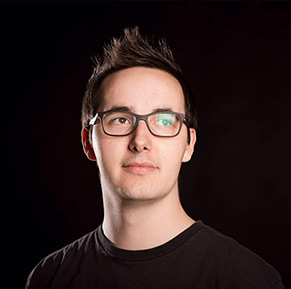
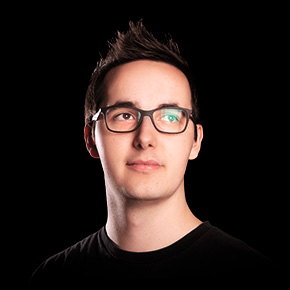
Quick content shifts and updates

Changed region(s): [[0.1241, 0.0623, 0.9931, 1.0], [0.0931, 0.9343, 0.1241, 0.9965], [0.0621, 0.9965, 0.0931, 1.0]]

diff --git a/about.html b/about.html
@@ -1,19 +1,21 @@
 <!DOCTYPE html>
 <html lang="en">
-    <head>
-        <title>About me - Thijmen de Valk</title>
-        <meta name="viewport" content="width=device-width, initial-scale=1">
-        <meta charset="UTF-8">
-        <meta name="description" content="Hi! I'm Thijmen, a Dutch user experience designer. I love designing products that blend the digital and physical world.">
 
-        <meta property="og:type" content="profile">
-        <meta property="og:title" content="Thijmen de Valk">
-        <meta property="og:url" content="https://madebythijmen.nl/about">
-        <meta property="og:image" content="https://madebythijmen.nl/assets/img/about/me@2x.jpg">
-        <meta property="profile:first_name" content="Thijmen">
-        <meta property="profile:last_name" content="de Valk">
+<head>
+    <title>About me - Thijmen de Valk</title>
+    <meta name="viewport" content="width=device-width, initial-scale=1">
+    <meta charset="UTF-8">
+    <meta name="description"
+        content="Hi! I'm Thijmen, a Dutch user experience designer. I love designing products that blend the digital and physical world.">
 
-        <script type="application/ld+json">
+    <meta property="og:type" content="profile">
+    <meta property="og:title" content="Thijmen de Valk">
+    <meta property="og:url" content="https://madebythijmen.nl/about">
+    <meta property="og:image" content="https://madebythijmen.nl/assets/img/about/me@2x.jpg">
+    <meta property="profile:first_name" content="Thijmen">
+    <meta property="profile:last_name" content="de Valk">
+
+    <script type="application/ld+json">
             {
                 "@context": "https://schema.org/",
                 "@type": "Person",
@@ -22,48 +24,59 @@
                 "givenName": "Thijmen",
                 "familyName": "de Valk",
                 "email": "mailto:hello@madebythijmen.nl",
-                "jobTitle": "User Experience Designer",
+                "url": "https://madebythijmen.nl",
+                "jobTitle": "Product Owner \"What's for Dinner\"",
+                "affiliation": [
+                    {
+                        "@type": "Organization",
+                        "name": "Albert Heijn",
+                        "sameAs": [
+                            "https://ah.nl"
+                        ]
+                    }
+                ]
             }
         </script>
-        
-        <link href="https://use.typekit.net" rel="preconnect" crossorigin>
 
-        <link rel="stylesheet" href="/assets/css/styles.css?20201216001">
-        <link rel="stylesheet" href="https://use.typekit.net/uya6imn.css">
+    <link href="https://use.typekit.net" rel="preconnect" crossorigin>
 
-        <link rel="icon" type="image/png" sizes="16x16" href="/favicon-16.png">
-        <link rel="icon" type="image/png" sizes="32x32" href="/favicon-32.png">
-        <link rel="apple-touch-icon" sizes="196x196" href="/favicon.png">
-    </head>
-    <body>
-        <!-- Top bar -->
-        <header class="menu">
-            <h1 class="menu__logo"><a href="/">Made by <span class="util__name">Thijmen</span></a></h1>
-            <nav class="menu__menu">
-                <ul>
-                    <li><a href="/about">About me</a></li>
-                </ul>
-            </nav>
+    <link rel="stylesheet" href="/assets/css/styles.css?20201216001">
+    <link rel="stylesheet" href="https://use.typekit.net/uya6imn.css">
+
+    <link rel="icon" type="image/png" sizes="16x16" href="/favicon-16.png">
+    <link rel="icon" type="image/png" sizes="32x32" href="/favicon-32.png">
+    <link rel="apple-touch-icon" sizes="196x196" href="/favicon.png">
+</head>
+
+<body>
+    <!-- Top bar -->
+    <header class="menu">
+        <h1 class="menu__logo"><a href="/">Made by <span class="util__name">Thijmen</span></a></h1>
+    </header>
+
+    <!-- Main content -->
+    <main>
+        <!-- Basic stuff about me-->
+        <header class="section section--home about-me">
+            <div class="about-me__text">
+                <h1><b><span class="util__name">Thijmen de Valk</span></b></h1>
+                <h2>Product owner “What's for Dinner” <br class="util__hide-small">at Albert Heijn</h2>
+            </div>
+            <figure class="photos__item about-me__photo">
+                <img src="/assets/img/about/me.jpg" srcset="/assets/img/about/me.jpg 1x, /assets/img/about/me@2x.jpg 2x"
+                    alt="This is a photo of me!">
+            </figure>
         </header>
-
-        <!-- Main content -->
-        <main>
-            <!-- Basic stuff about me-->
+        <!--
             <header class="section section--header about-me">
                 <div class="about-me__text">
-                    <h1><span class="util__name">Thijmen</span> de Valk</h1>
-                    <p><b>Hi there! I'm a Dutch user experience designer.</b></p>
                     <p>I love designing products that blend the digital and physical world.</p>
                     <p>How I ended up as a UX designer? Well... I started coding when I was 8 and drawing before I understood the concept of &lsquo;age&rsquo;. Combine that with a love for storytelling and an unstoppable curiosity (the question &ldquo;but why?&rdquo; is my go-to clich&eacute;) and I finally realised UX is where I get to do all those things at once!</p>
                     <p>Currently, I'm studying at THUAS in The Hague.</p>
                     <p>I'll leave you with this random fact: I made two movies while in high school. Turns out knowing about composition, pace and dramatic arcs is super helpful when designing digital products!</p>
                 </div>
-                <figure class="photos__item about-me__photo">
-                    <img src="/assets/img/about/me.jpg" srcset="/assets/img/about/me.jpg 1x, /assets/img/about/me@2x.jpg 2x" alt="This is a photo of me!">
-                </figure>
             </header>
 
-            <!-- Let's take a break and look at pretty stuff -->
             <section class="section section--photos">
                 <h2 class="heading--secondary">Things you (do not) need to know about me</h2>
                 <div class="photos">
@@ -103,75 +116,105 @@
                     </figure>
                 </div>
             </section>
+            -->
 
-            <!-- And here's the official part -->
-            <section class="section section--list">
-                <div class="section__title">
-                    <h2>Work Experience</h2>
-                    <a href="/#work" class="button">See my favourite work</a>
-                </div>
-                <ul class="section__item list list--no-count">
-                    <li>
-                        <time class="timestamp">2020 - now</time>
-                        <h3>Intern Product Owner Digital</h3>
-                        <h4>Albert Heijn</h4>
-                        <p>Working with a SCRUM development team on revamping Allerhande, the inspiration and recipe section of the Albert Heijn website.</p>
-                    </li>
-                    <li>
-                        <time class="timestamp">2015 - 2020</time>
-                        <h3>R&amp;D @ Digital Art Lab</h3>
-                        <h4>CKC &amp; partners</h4>
-                        <p>Experimenting with brand new technologies, dreaming up crazy concepts and then getting to realise them. Anything from virtual reality and the Internet of Things to location beacons and laser cutting is fair game.</p>
-                        <p>Aka: working in a digital playground.</p>
-                    </li>
-                    <li>
-                        <time class="timestamp">2015 - now</time>
-                        <h3>Freelancer</h3>
-                    </li>
-                    <li>
-                        <time class="timestamp">2011 - 2015</time>
-                        <h3>Volunteer</h3>
-                        <h4>CKC &amp; partners</h4>
-                        <p>Assisting in the freshly formed Digital Art Lab and in general marketing and promotion activities. Projects included creating and organising the Thriller Film Contest for high schools and creating a variety of promotional videos.</p>
-                    </li>
-                </ul>
-            </section>
-            <section class="section section--list">
-                <h2 class="section__title">Education</h2>
-                <ul class="section__item list list--no-count">
-                    <li>
-                        <time class="timestamp">Class of 2022</time>
-                        <h3>User Experience Design <small>English Stream</small></h3>
-                        <h4>Bachelor of Sciences (BSc)</h4>
-                        <p>Faculty of IT &amp; Design</p>
-                        <p>The Hague University of Applied Sciences</p>
-                    </li>
-                    <li>
-                        <time class="timestamp">Class of 2015</time>
-                        <h3>Pre-university education <small>Atheneum</small></h3>
-                        <h4>Economy and Society <small>+ Computer Sciences</small></h4>
-                        <p>Picasso Lyceum, Zoetermeer</p>
-                    </li>
-                </ul>
-            </section>
-        </main>
+        <!-- And here's the official part -->
+        <section class="section section--list">
+            <div class="section__title">
+                <h2>Work Experience</h2>
+                <a href="/#work" class="button">See my favourite work</a>
+            </div>
+            <ul class="section__item list list--no-count">
+                <li>
+                    <time class="timestamp">2020 - now</time>
+                    <h3>Product Owner “What's for Dinner”</h3>
+                    <h4>Albert Heijn, Zaandam, NL</h4>
+                    <p>Allerhande is the Netherlands’ number 1 recipe website, app and magazine. Every year, millions of
+                        visitors browse its rich recipe database and inspiring content to answer the question “what’s
+                        for dinner today?”.</p>
+                </li>
+                <li>
+                    <time class="timestamp">2015 - 2021</time>
+                    <h3>R&amp;D @ Digital Art Lab</h3>
+                    <h4>CKC &amp; partners, Zoetermeer, NL</h4>
+                    <h4>Freelance</h4>
+                    <p>The Digital Art Lab is the R&D department of this cultural centre. Artists and participants work
+                        together with designers, developers and students to experiment with the latest technologies.</p>
+                </li>
+                <li>
+                    <time class="timestamp">2015 - 2021</time>
+                    <h3>Freelancer</h3>
+                </li>
+                <li>
+                    <time class="timestamp">2011 - 2015</time>
+                    <h3>Volunteer</h3>
+                    <h4>CKC &amp; partners</h4>
+                    <p>Assisting in the freshly formed Digital Art Lab and in general marketing and promotion
+                        activities. Projects included creating and organising the Thriller Film Contest for high schools
+                        and creating a variety of promotional videos.</p>
+                </li>
+            </ul>
+        </section>
+        <section class="section section--list">
+            <h2 class="section__title section__title--no-offset">Certifications</h2>
+            <ul class="section__item list list--no-count">
+                <li>
+                    <time class="timestamp">2022</time>
+                    <h3>Professional Scrum Product Owner II</h3>
+                    <p>Scrum.org</p>
+                </li>
+                <li>
+                    <time class="timestamp">2021</time>
+                    <h3>Professional Scrum Product Owner I</h3>
+                    <p>Scrum.org</p>
+                </li>
+                <li>
+                    <time class="timestamp">2020</time>
+                    <h3>Google Analytics IQ</h3>
+                    <p>Google</p>
+                </li>
+            </ul>
+        </section>
+        <section class="section section--list">
+            <h2 class="section__title">Education</h2>
+            <ul class="section__item list list--no-count">
+                <li>
+                    <time class="timestamp">2019 - 2021</time>
+                    <h3>User Experience Design <small>English Stream</small></h3>
+                    <h4>Propaedeutic Year + Year 2</h4>
+                    <p>Faculty of IT &amp; Design</p>
+                    <p>The Hague University of Applied Sciences</p>
+                </li>
+                <li>
+                    <time class="timestamp">Class of 2015</time>
+                    <h3>Pre-university education <small>Atheneum</small></h3>
+                    <h4>Economy and Society <small>+ Computer Sciences</small></h4>
+                    <p>Picasso Lyceum, Zoetermeer</p>
+                </li>
+            </ul>
+        </section>
+    </main>
 
-        <!-- Footer -->
-        <!-- Funny story: the styles for the top bar work here too -->
-        <footer class="menu">
-            <h1 class="menu__logo"><a href="/">Made by <span class="util__name">Thijmen</span></a></h1>
-            <aside class="menu__contact">
-                <h2>Let's talk!</h2>
-                <p><a href="mailto:hello@madebythijmen.nl">hello@madebythijmen.nl</a></p>
-                <ul class="menu__social">
-                    <li><a href="https://linkedin.com/in/thijmendevalk"><img src="/assets/img/social-linkedin.svg" alt="LinkedIn"></a></li>
-                    <li><a href="https://twitter.com/thijmendevalk"><img src="/assets/img/social-twitter.svg" alt="Twitter"></a></li>
-                    <li><a href="https://instagram.com/thijmendevalk"><img src="/assets/img/social-instagram.svg" alt="Instagram"></a></li>
-                    <li><a href="https://medium.com/@thijmendevalk"><img src="/assets/img/social-medium.svg" alt="Medium"></a></li>
-                    <li><a href="https://github.com/thijmendevalk"><img src="/assets/img/social-github.svg" alt="GitHub"></a></li>
-                </ul>
-            </aside>
-        </footer>
+    <!-- Footer -->
+    <!-- Funny story: the styles for the top bar work here too -->
+    <footer class="menu">
+        <h1 class="menu__logo"><a href="/">Made by <span class="util__name">Thijmen</span></a></h1>
+        <aside class="menu__contact">
+            <h2>Let's talk!</h2>
+            <p><a href="mailto:hello@madebythijmen.nl">hello@madebythijmen.nl</a></p>
+            <ul class="menu__social">
+                <li><a href="https://linkedin.com/in/thijmendevalk"><img src="/assets/img/social-linkedin.svg"
+                            alt="LinkedIn"></a></li>
+                <li><a href="https://twitter.com/thijmendevalk"><img src="/assets/img/social-twitter.svg"
+                            alt="Twitter"></a></li>
+                <li><a href="https://instagram.com/thijmendevalk"><img src="/assets/img/social-instagram.svg"
+                            alt="Instagram"></a></li>
+                <li><a href="https://github.com/thijmendevalk"><img src="/assets/img/social-github.svg"
+                            alt="GitHub"></a></li>
+            </ul>
+        </aside>
+    </footer>
 
-    </body>
+</body>
+
 </html>

diff --git a/index.html b/index.html
@@ -29,13 +29,17 @@
         <main>
 
             <!-- Introduction -->
-            <header class="section section--home">
-                <h2>Made by <span class="util__name">Thijmen</span></h2>
-                <h1>Hi, I'm <b><span class="util__name">Thijmen de Valk</span></b>. <br class="util__hide-small">
-                    I'm a freelance <b>product owner</b> <br class="util__hide-small">
-                    and <b>user experience designer</b>, <br class="util__hide-small">
-                    currently at Albert Heijn.</h1>
-                <a href="/about" class="button button--large button--space-above">More about me</a>
+            <header class="section section--home about-me">
+                <div class="about-me__text">
+                    <h2>Made by <span class="util__name">Thijmen</span></h2>
+                    <h1>Hi, I'm <b><span class="util__name">Thijmen de Valk</span></b>. <br class="util__hide-small">
+                        I'm a <b>product owner</b> <br class="util__hide-small">
+                        at Albert Heijn.</h1>
+                    <a href="/about" class="button button--large button--space-above">More about me</a>
+                </div>
+                <figure class="photos__item about-me__photo">
+                    <img src="/assets/img/about/me.jpg" srcset="/assets/img/about/me.jpg 1x, /assets/img/about/me@2x.jpg 2x" alt="This is a photo of me!">
+                </figure>
             </header>
 
             <!-- Work -->
@@ -102,7 +106,6 @@
                     <li><a href="https://linkedin.com/in/thijmendevalk"><img src="/assets/img/social-linkedin.svg" alt="LinkedIn"></a></li>
                     <li><a href="https://twitter.com/thijmendevalk"><img src="/assets/img/social-twitter.svg" alt="Twitter"></a></li>
                     <li><a href="https://instagram.com/thijmendevalk"><img src="/assets/img/social-instagram.svg" alt="Instagram"></a></li>
-                    <li><a href="https://medium.com/@thijmendevalk"><img src="/assets/img/social-medium.svg" alt="Medium"></a></li>
                     <li><a href="https://github.com/thijmendevalk"><img src="/assets/img/social-github.svg" alt="GitHub"></a></li>
                 </ul>
             </aside>

diff --git a/404.html b/404.html
@@ -46,7 +46,6 @@
                     <li><a href="https://linkedin.com/in/thijmendevalk"><img src="/assets/img/social-linkedin.svg" alt="LinkedIn"></a></li>
                     <li><a href="https://twitter.com/thijmendevalk"><img src="/assets/img/social-twitter.svg" alt="Twitter"></a></li>
                     <li><a href="https://instagram.com/thijmendevalk"><img src="/assets/img/social-instagram.svg" alt="Instagram"></a></li>
-                    <li><a href="https://medium.com/@thijmendevalk"><img src="/assets/img/social-medium.svg" alt="Medium"></a></li>
                     <li><a href="https://github.com/thijmendevalk"><img src="/assets/img/social-github.svg" alt="GitHub"></a></li>
                 </ul>
             </aside>

diff --git a/legal.html b/legal.html
@@ -50,7 +50,6 @@
                     <li><a href="https://linkedin.com/in/thijmendevalk"><img src="/assets/img/social-linkedin.svg" alt="LinkedIn"></a></li>
                     <li><a href="https://twitter.com/thijmendevalk"><img src="/assets/img/social-twitter.svg" alt="Twitter"></a></li>
                     <li><a href="https://instagram.com/thijmendevalk"><img src="/assets/img/social-instagram.svg" alt="Instagram"></a></li>
-                    <li><a href="https://medium.com/@thijmendevalk"><img src="/assets/img/social-medium.svg" alt="Medium"></a></li>
                     <li><a href="https://github.com/thijmendevalk"><img src="/assets/img/social-github.svg" alt="GitHub"></a></li>
                 </ul>
             </aside>

diff --git a/work/ckc-id.html b/work/ckc-id.html
@@ -98,7 +98,6 @@
                     <li><a href="https://linkedin.com/in/thijmendevalk"><img src="/assets/img/social-linkedin.svg" alt="LinkedIn"></a></li>
                     <li><a href="https://twitter.com/thijmendevalk"><img src="/assets/img/social-twitter.svg" alt="Twitter"></a></li>
                     <li><a href="https://instagram.com/thijmendevalk"><img src="/assets/img/social-instagram.svg" alt="Instagram"></a></li>
-                    <li><a href="https://medium.com/@thijmendevalk"><img src="/assets/img/social-medium.svg" alt="Medium"></a></li>
                     <li><a href="https://github.com/thijmendevalk"><img src="/assets/img/social-github.svg" alt="GitHub"></a></li>
                 </ul>
             </aside>

diff --git a/work/dal-community.html b/work/dal-community.html
@@ -97,7 +97,6 @@
                     <li><a href="https://linkedin.com/in/thijmendevalk"><img src="/assets/img/social-linkedin.svg" alt="LinkedIn"></a></li>
                     <li><a href="https://twitter.com/thijmendevalk"><img src="/assets/img/social-twitter.svg" alt="Twitter"></a></li>
                     <li><a href="https://instagram.com/thijmendevalk"><img src="/assets/img/social-instagram.svg" alt="Instagram"></a></li>
-                    <li><a href="https://medium.com/@thijmendevalk"><img src="/assets/img/social-medium.svg" alt="Medium"></a></li>
                     <li><a href="https://github.com/thijmendevalk"><img src="/assets/img/social-github.svg" alt="GitHub"></a></li>
                 </ul>
             </aside>

diff --git a/work/hallmark.html b/work/hallmark.html
@@ -86,7 +86,6 @@
                     <li><a href="https://linkedin.com/in/thijmendevalk"><img src="/assets/img/social-linkedin.svg" alt="LinkedIn"></a></li>
                     <li><a href="https://twitter.com/thijmendevalk"><img src="/assets/img/social-twitter.svg" alt="Twitter"></a></li>
                     <li><a href="https://instagram.com/thijmendevalk"><img src="/assets/img/social-instagram.svg" alt="Instagram"></a></li>
-                    <li><a href="https://medium.com/@thijmendevalk"><img src="/assets/img/social-medium.svg" alt="Medium"></a></li>
                     <li><a href="https://github.com/thijmendevalk"><img src="/assets/img/social-github.svg" alt="GitHub"></a></li>
                 </ul>
             </aside>

diff --git a/work/open-day-ckc.html b/work/open-day-ckc.html
@@ -99,7 +99,6 @@
                     <li><a href="https://linkedin.com/in/thijmendevalk"><img src="/assets/img/social-linkedin.svg" alt="LinkedIn"></a></li>
                     <li><a href="https://twitter.com/thijmendevalk"><img src="/assets/img/social-twitter.svg" alt="Twitter"></a></li>
                     <li><a href="https://instagram.com/thijmendevalk"><img src="/assets/img/social-instagram.svg" alt="Instagram"></a></li>
-                    <li><a href="https://medium.com/@thijmendevalk"><img src="/assets/img/social-medium.svg" alt="Medium"></a></li>
                     <li><a href="https://github.com/thijmendevalk"><img src="/assets/img/social-github.svg" alt="GitHub"></a></li>
                 </ul>
             </aside>

diff --git a/assets/css/styles.css b/assets/css/styles.css
@@ -210,10 +210,7 @@ a:hover {
     margin-bottom: 0;
 }
 
-.section--home h2 {
-    margin-top: 0;
-}
-.section--home h1 {
+.section--home h1, .section--home h2 {
     color: rgba(255,255,255,.6);
 }
 .section--home h1 b {
